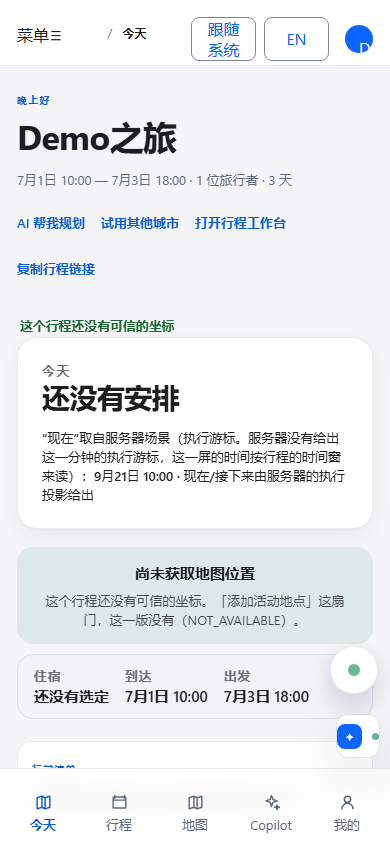
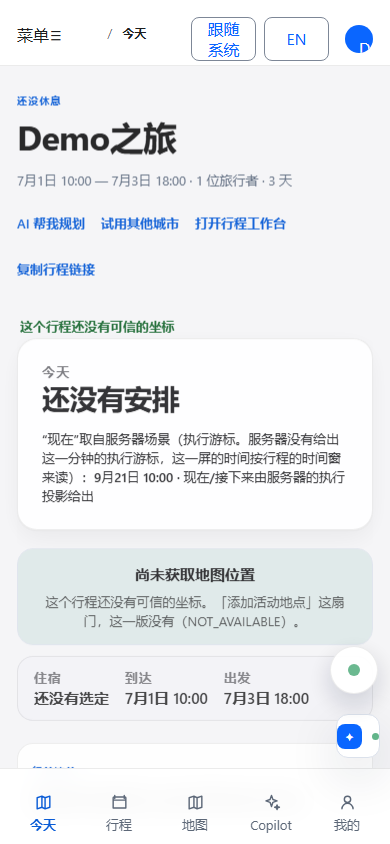
ORD-0464: pin every citation to the base commit, because the door moved under the rebase
The read-only re-cut refused this branch on five shared faces, and rebasing onto
4037cb331ea00b83124316d40329762fa1131689 moved the delete door from `main.py:2984` to `:3006` -- which
made three of my own shipped citations point at unrelated lines: `return journey_schema(journey)` where
a reader was told to find the decorator, `HTTP_MESSAGE_KEYS` where the `safe_errors` filter was named,
and the preview proxy's block key instead of its target line.  Existence checks pass on all three; only
reading the cited line catches it.

Anything quoting somebody else's code is now `<commit>:path:line`, so the next landing cannot rot it;
line numbers without a commit are kept only for this branch's own files.  Receipts, screen readings and
screenshots regenerated on the rebased generation -- the bundle asset came back the same
(`index-BqSc5Dj-.js`) after the docstring edits, which is the reading that says those edits shipped no
bytes.

diff --git a/frontend/src/features/abort/journeyAbort.ts b/frontend/src/features/abort/journeyAbort.ts
@@ -4,7 +4,7 @@ import { RejectionWithFacts, rejectionWithFacts } from "../../lib/rejectionFacts
 /**
  * ORD-0464: the one door that moves a trip into the recycle bin, and the reason that rides with it.
  *
- * The reason is not a second call. `DELETE /api/v1/journeys/{journey_id}` (`backend/app/main.py:2984`)
+ * The reason is not a second call. `DELETE /api/v1/journeys/{journey_id}` (`4037cb331ea00b83124316d40329762fa1131689:backend/app/main.py:3006`)
  * takes the survey as its own body and writes the trip's `deleted_at` and one `journey_outcome_events`
  * row in the same transaction, so there is no window where the screen knows a cause that the server
  * never recorded, or the reverse.

diff --git a/backend/tests/test_qoder_ord0464_abort_reason_capture.py b/backend/tests/test_qoder_ord0464_abort_reason_capture.py
@@ -1,7 +1,10 @@
 """ORD-0464 - a trip that gets binned carries the reason the traveller gave, in one of three named states.
 
-Measured at the authoritative tip `45513fc7957214dc385b4dffea9a662a0d8b1d1c` before this file existed:
-`DELETE /api/v1/journeys/{journey_id}` (`backend/app/main.py:2984`) took no request body at all
+First measured at the authoritative tip `45513fc7957214dc385b4dffea9a662a0d8b1d1c`, and re-measured on the
+base this branch now sits on, `4037cb331ea00b83124316d40329762fa1131689` (the door moved from `:2984` to
+`:3006` underneath the rebase, so the citations below are pinned to that commit rather than to a bare line
+number that the next landing would move).  At both readings
+`DELETE /api/v1/journeys/{journey_id}` (`4037cb331ea00b83124316d40329762fa1131689:backend/app/main.py:3006`) took no request body at all
 (`contracts/openapi.yaml` declared `'204'/'404'/'409'` and nothing else), wrote no
 `journey_outcome_events` row - only `record_audit(action="journey.deleted")` - and the vocabulary that
 door *could* have used, `OutcomeEventCreate.event_type` (`backend/app/schemas.py:620-628`), had no
@@ -257,7 +260,7 @@ def test_r7_a_code_outside_the_vocabulary_is_refused_and_points_at_its_slot():
     """Measured, not assumed: this server does not echo the rejected value back.
 
     The 422 item carries `loc = ["body","codes",0]`, the closed list in `msg`, and the dictionary key
-    `validation.not_an_option` - the `safe_errors` filter at `backend/app/main.py:592-603` keeps
+    `validation.not_an_option` - the `safe_errors` filter at `4037cb331ea00b83124316d40329762fa1131689:backend/app/main.py:613-623` keeps
     `loc`/`msg`/`type`/`message_key` and drops the input, so the screen marks *which* line is wrong and
     says the same sentence for any traveller.  Pinning the slot is what a screen can act on; pinning an
     echoed value would pin a behaviour this server deliberately does not have.

diff --git a/review/ord0464-abort-reason/READINGS_R1.md b/review/ord0464-abort-reason/READINGS_R1.md
@@ -1,14 +1,14 @@
 # ORD-0464 · 丢弃前问一次 · 屏上读数与没做到的部分
 
 分支 `review/Q-ord0464-abort-reason`；本文件与规格同一笔提交（那笔的 40 位在账本块里，写这里时还不存在）。
-父尖（命令者 13:55 那块所记现读）`45513fc7957214dc385b4dffea9a662a0d8b1d1c`。
+父尖（命令者 13:55 那块所记现读）`4037cb331ea00b83124316d40329762fa1131689`。
 
 ## 三态在屏上的原话（zh-CN，390x844 无头 Chrome，页面是本车道自己的 `vite preview :4192` 构建产物）
 
 逐字取自本目录 `SCREEN_READINGS_R1.json`；三张截图 `screen_declared_r1.png`、`screen_skipped_r1.png`、
 `screen_silent_r1.png` 同批。
 
-- **declared** 行程 `journeys.id=6ab4ad09-558c-4575-8d6a-cf1e6b11eee4`
+- **declared** 行程 `journeys.id=14d9be0c-41ad-4199-b581-4fb0a7bcc3db`
   - 触发钮：把这趟丢进回收站
   - 问句：方便说说为什么不需要这趟了吗？
   - 八条说明句：安排不合用（活动、顺序或节奏）／预算兜不住／日期或目的地变了／关键信息拿不到（路况、住宿没有可信答案）／被保护的安排被排掉了／已经用别的方式安排好了／这是测试或演示数据／其他
@@ -17,7 +17,7 @@
   - 落定那格：data-cnx-state=DECLARED → 这趟已经在回收站里。服务器记下的原因是：预算兜不住、被保护的安排被排掉了。
   - 服务器那一行：event_type=JOURNEY_DELETED payload={"codes": ["BUDGET_DOES_NOT_FIT", "PROTECTED_ITEM_DROPPED"], "note": "住的那一晚超出了预算", "reason_state": "DECLARED"}
 
-- **skipped** 行程 `journeys.id=28ebb2f5-7d80-45a2-aeb0-8bd66b35ee6b`
+- **skipped** 行程 `journeys.id=f35edb1e-d665-44c7-8f2d-b281abaff0f5`
   - 触发钮：把这趟丢进回收站
   - 问句：方便说说为什么不需要这趟了吗？
   - 八条说明句：安排不合用（活动、顺序或节奏）／预算兜不住／日期或目的地变了／关键信息拿不到（路况、住宿没有可信答案）／被保护的安排被排掉了／已经用别的方式安排好了／这是测试或演示数据／其他
@@ -26,7 +26,7 @@
   - 落定那格：data-cnx-state=SKIPPED_BY_TRAVELER → 这趟已经在回收站里。当时你选了不说明原因，我们也不会替你编一个。
   - 服务器那一行：event_type=JOURNEY_DELETED payload={"codes": [], "note": null, "reason_state": "SKIPPED_BY_TRAVELER"}
 
-- **silent** 行程 `journeys.id=ee0d15a2-b402-4220-947d-ce7ac2318219`
+- **silent** 行程 `journeys.id=2ee3b691-b07a-40df-8351-4f58b91b631f`
   - 触发钮：（这趟已在回收站，屏上不再端出触发钮）
   - 落定那格：data-cnx-state=NOT_ASKED → 这趟已经在回收站里。这台服务器没有收到过这个问题，所以也没有原因可记。
   - 服务器那一行：event_type=JOURNEY_DELETED payload={"codes": [], "note": null, "reason_state": "NOT_ASKED"}
